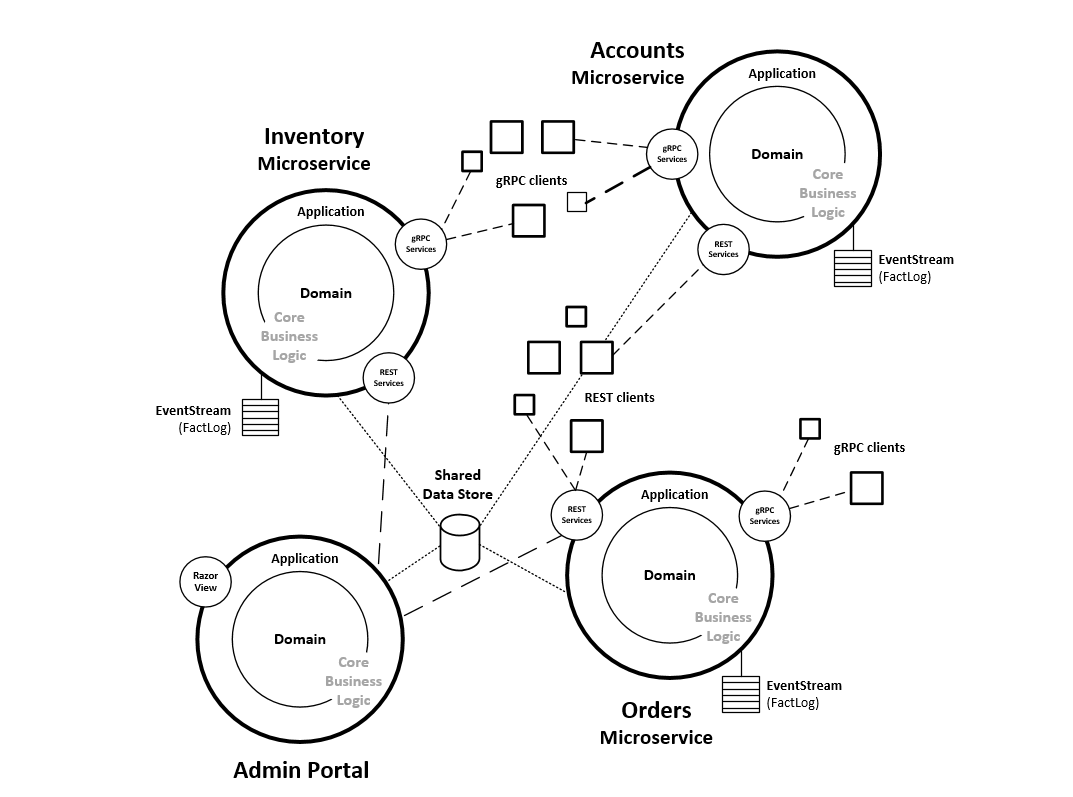
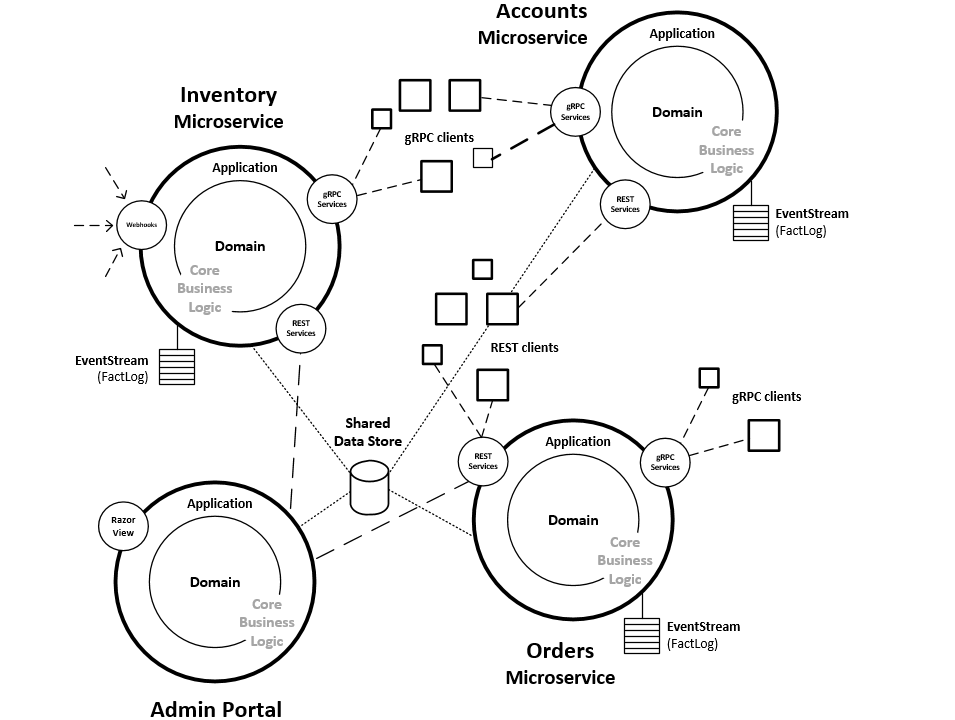
Added WebHooks to Illustrations

Changed region(s): [[0.0911, 0.0, 0.8806, 1.0], [0.1215, 0.825, 0.1518, 0.9167], [0.577, 0.3361, 0.6073, 0.3972]]

diff --git a/README.md b/README.md
@@ -93,7 +93,7 @@ Here is a typical file structure, simplified to focus on a single entity wth onl
 
 **Note:** When added to your Dependency Injection Container MediatR will automatically search your assemblies using for **IRequest** and **IRequestHandler** and other MediatR naming conventions. This builds up your library of commands and queries for use throught your project.
 
-**Optimaization:** Seperating Commands from Queries allows you to optimize how you access your data store between each access type. You may also choose to have different data stores for reads vs writes. Perhaps Reads will ALWAYS hit a Redis Cache or Search Provider and part of the responsibility of Writes are to ensure these are kept up to date. You may use the same ata store but opt for Entity Framework for your Reads and ADO.NET for your Writes. Or you can go full Event Sourced and build up snapshots, projections and aggregates from your Event Store.
+**Optimization:** Seperating Commands from Queries allows you to optimize how you access your data store between each access type. You may also choose to have different data stores for reads vs writes. Perhaps Reads will ALWAYS hit a Redis Cache or Search Provider and part of the responsibility of Writes are to ensure these are kept up to date. You may use the same ata store but opt for Entity Framework for your Reads and ADO.NET for your Writes. Or you can go full Event Sourced and build up snapshots, projections and aggregates from your Event Store.
 
 ## MediatR Pipeline Behaviors for Cross-Cutting Concerns
 MediatR gives you the ability to inject functionality into it's processing pipeline such as pre-request and post-request handlers.  this allow for  on the requests coming in, or post-process the request on the way out. We can define pipelines to help manage cross-cutting concerns such as logging, authorization and caching. 
@@ -157,8 +157,12 @@ These are used for human readable logs for platform and account admins to view i
 
 While it is tempting to add this to a Pipeline Behavior - considering the fact that you will want to run authentication/authorization checks (see: authentication/authorization below), manage role allowances and log user details with the activity - this could be better suited to the Service layer where you are closer to the user request and can use this as a gateway to the Commands/Queries in the Application layer below. This also allows you to be more flexible in how you address activity logs as you can check for successes or failures on the Commands/Queries made and decide if certain requests are worth logging. YOu may also want to diferentiate between Account and Platform users and store activities in seperate logs.
 
+Regardless  - command objects include commented out regions should you desire to include user details for activity logging as a pipeline behavior.
+
 ## Authentication/Authorization
 Authorization is left open. .Net Core Identity or Azure Active Directory (including the B2C variant) should all be considered.
+
+Command objects include commented out regions should you desire to include authorization checks as a pipeline behavior.
 
 ## Containerization
 Docker is used on all projects/solutions to manage local builds and deploy to multi-enviornment configurations.
